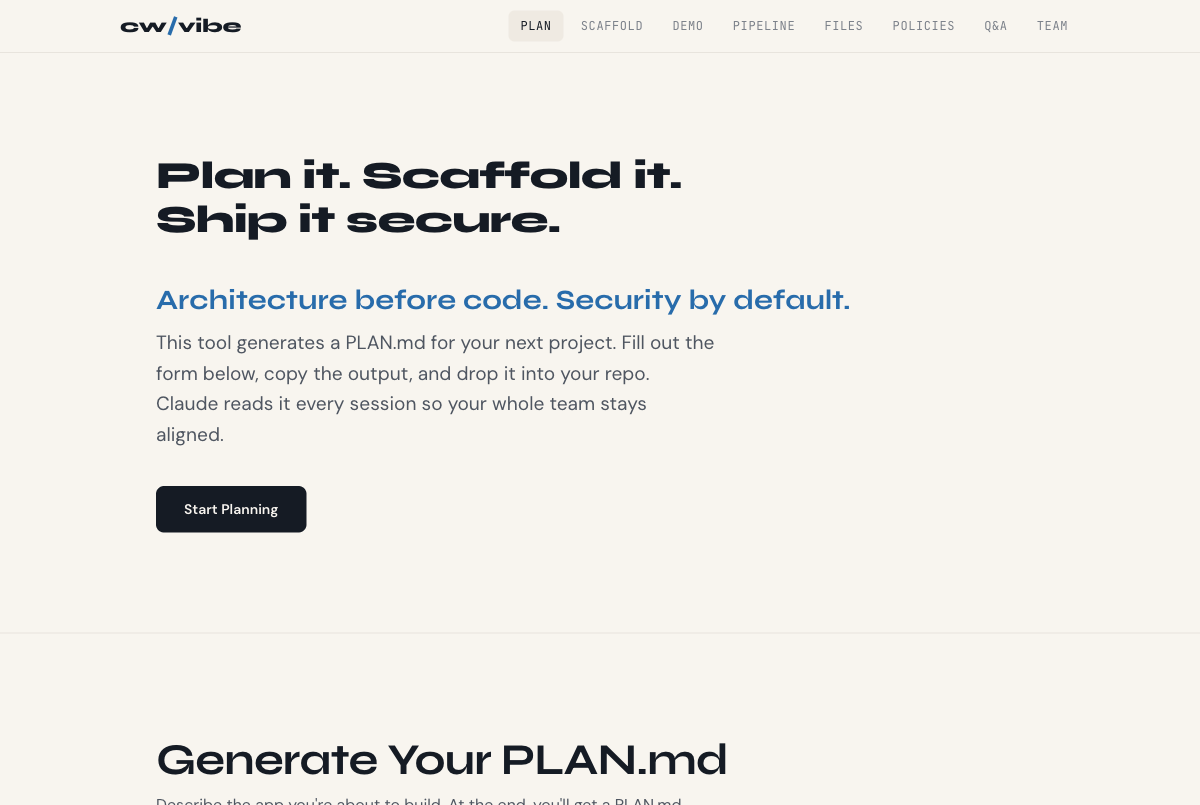
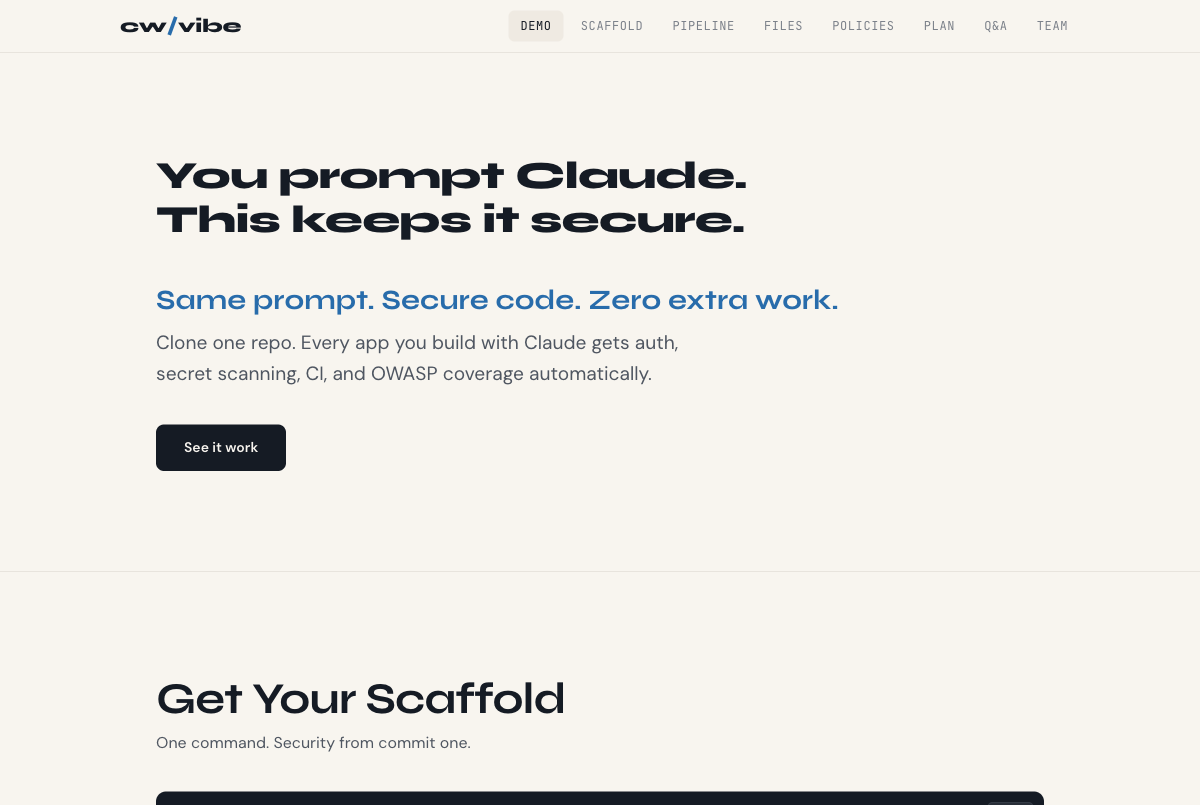
Remove form from landing — demo first, plan form hidden until needed
Hero rewritten: "You prompt Claude. This keeps it secure." CTA goes
to demo, not form. Nav reordered: Demo > Scaffold > Pipeline > Files >
Policies > Plan. Plan form hidden by default, reveals on nav click.
Removed 60 lines of form bloat (duplicate role rows, flow builder).

Changed region(s): [[0.1233, 0.3416, 0.7092, 0.6832], [0.1233, 0.8385, 0.8942, 1.0], [0.1233, 0.1863, 0.6167, 0.3106]]

diff --git a/docs/index.html b/docs/index.html
@@ -267,12 +267,12 @@ textarea { resize: vertical; min-height: 80px; line-height: 1.6; }
 <div class="container nav-inner">
   <div class="nav-logo">cw<span>/</span>vibe</div>
   <div class="nav-links">
-    <a href="#plan" class="nav-link active" data-section="plan">Plan</a>
+    <a href="#demo" class="nav-link active" data-section="demo">Demo</a>
     <a href="#scaffold" class="nav-link" data-section="scaffold">Scaffold</a>
-    <a href="#demo" class="nav-link" data-section="demo">Demo</a>
     <a href="#pipeline" class="nav-link" data-section="pipeline">Pipeline</a>
     <a href="#files" class="nav-link" data-section="files">Files</a>
     <a href="#policies" class="nav-link" data-section="policies">Policies</a>
+    <a href="#plan" class="nav-link" data-section="plan">Plan</a>
     <a href="#qa" class="nav-link" data-section="qa">Q&amp;A</a>
     <a href="#team" class="nav-link" data-section="team">Team</a>
   </div>
@@ -282,182 +282,10 @@ textarea { resize: vertical; min-height: 80px; line-height: 1.6; }
 <!-- HERO -->
 <section class="hero">
 <div class="container">
-  <h1>Plan it. Scaffold it.<br>Ship it secure.</h1>
-  <p class="hero-stat">Architecture before code. Security by default.</p>
-  <p class="hero-sub">This tool generates a PLAN.md for your next project. Fill out the form below, copy the output, and drop it into your repo. Claude reads it every session so your whole team stays aligned.</p>
-  <a href="#plan" class="hero-cta" onclick="document.getElementById('plan').scrollIntoView({behavior:'smooth'});return false;">Start Planning</a>
-</div>
-</section>
-
-<!-- ===== SECTION 1: PLAN ===== -->
-<section id="plan">
-<div class="container">
-  <h2>Generate Your PLAN.md</h2>
-  <p class="subtitle">Describe the app you're about to build. At the end, you'll get a PLAN.md to copy into your project. This doesn't build anything — it creates the blueprint Claude follows.</p>
-  <div class="step-progress" id="stepProgress">Step <strong>1</strong> of 8</div>
-  <div class="step-track" id="stepTrack"></div>
-
-  <!-- Step 1: Identity -->
-  <div class="step-card active" data-step="1">
-    <h3>1. Project Identity</h3>
-    <p>What app are you planning? This goes into the generated PLAN.md header.</p>
-    <div class="field-group"><label class="field-label" for="appName">App Name</label><input type="text" id="appName" placeholder="e.g. inventory-tracker" autocomplete="off"></div>
-    <div class="field-group"><label class="field-label" for="appDesc">One-Sentence Description</label><input type="text" id="appDesc" placeholder="e.g. Tracks rack inventory for DCT ops"></div>
-    <div class="field-group"><label class="field-label" for="teamName">Team / Slack Channel</label><input type="text" id="teamName" placeholder="e.g. dct-ops (#dct-eng)"></div>
-    <div class="btn-row"><button class="btn btn-primary" onclick="nextStep(1)">Next</button></div>
-  </div>
-
-  <!-- Step 2: Roles -->
-  <div class="step-card" data-step="2">
-    <h3>2. Users &amp; Roles</h3>
-    <p>Who uses this app and what can they do?</p>
-    <div class="dynamic-rows" id="rolesRows">
-      <div class="dynamic-row roles-row"><input type="text" placeholder="Role (e.g. Admin)" class="role-name"><input type="text" placeholder="Who (e.g. DCT leads)" class="role-who"><input type="text" placeholder="Permissions (e.g. Full CRUD)" class="role-perms"><button class="remove-row" onclick="removeRow(this)">&times;</button></div>
-      <div class="dynamic-row roles-row"><input type="text" placeholder="Role" class="role-name"><input type="text" placeholder="Who" class="role-who"><input type="text" placeholder="Permissions" class="role-perms"><button class="remove-row" onclick="removeRow(this)">&times;</button></div>
-    </div>
-    <button class="add-row-btn" onclick="addRoleRow()">+ Add Role</button>
-    <div class="btn-row"><button class="btn btn-secondary" onclick="prevStep(2)">Back</button><button class="btn btn-primary" onclick="nextStep(2)">Next</button></div>
-  </div>
-
-  <!-- Step 3: Data -->
-  <div class="step-card" data-step="3">
-    <h3>3. Data Schema</h3>
-    <p>What data does this app store? Define your tables.</p>
-    <div class="dynamic-rows" id="tableRows">
-      <div class="dynamic-row table-row"><input type="text" placeholder="Table name" class="tbl-name"><input type="text" placeholder="Fields (comma-separated)" class="tbl-fields"><input type="text" placeholder="Notes" class="tbl-notes"><button class="remove-row" onclick="removeRow(this)">&times;</button></div>
-    </div>
-    <button class="add-row-btn" onclick="addTableRow()">+ Add Table</button>
-    <div class="btn-row"><button class="btn btn-secondary" onclick="prevStep(3)">Back</button><button class="btn btn-primary" onclick="nextStep(3)">Next</button></div>
-  </div>
-
-  <!-- Step 4: Endpoints -->
-  <div class="step-card" data-step="4">
-    <h3>4. API Endpoints</h3>
-    <p>What endpoints does the app expose?</p>
-    <div class="dynamic-rows" id="endpointRows">
-      <div class="dynamic-row endpoint-row"><select class="ep-method"><option>GET</option><option>POST</option><option>PUT</option><option>PATCH</option><option>DELETE</option></select><input type="text" placeholder="/api/resource" class="ep-path"><input type="text" placeholder="Auth role" class="ep-auth"><input type="text" placeholder="Description" class="ep-desc"><button class="remove-row" onclick="removeRow(this)">&times;</button></div>
-    </div>
-    <button class="add-row-btn" onclick="addEndpointRow()">+ Add Endpoint</button>
-    <div class="btn-row"><button class="btn btn-secondary" onclick="prevStep(4)">Back</button><button class="btn btn-primary" onclick="nextStep(4)">Next</button></div>
-  </div>
-
-  <!-- Step 5: Flow -->
-  <div class="step-card" data-step="5">
-    <h3>5. User Flow</h3>
-    <p>Describe the main user journey. We'll generate a Mermaid diagram.</p>
-    <div class="field-group"><label class="field-label" for="flowDesc">Flow Description</label><textarea id="flowDesc" placeholder="e.g. User logs in via Okta -> sees dashboard -> selects a rack -> views/edits inventory -> changes auto-save -> admin can export CSV"></textarea></div>
-    <div class="field-group">
-      <label class="field-label">Or define nodes manually</label>
-      <div class="dynamic-rows" id="flowRows">
-        <div class="dynamic-row" style="grid-template-columns:1fr 40px 1fr 32px"><input type="text" placeholder="From (e.g. User)" class="flow-from"><span style="text-align:center;color:var(--text-tertiary);font-size:var(--text-lg)">&rarr;</span><input type="text" placeholder="To (e.g. Okta)" class="flow-to"><button class="remove-row" onclick="removeRow(this)">&times;</button></div>
-      </div>
-      <button class="add-row-btn" onclick="addFlowRow()">+ Add Step</button>
-    </div>
-    <div class="btn-row"><button class="btn btn-secondary" onclick="prevStep(5)">Back</button><button class="btn btn-primary" onclick="nextStep(5)">Next</button></div>
-  </div>
-
-  <!-- Step 6: Stack -->
-  <div class="step-card" data-step="6">
-    <h3>6. Tech Stack</h3>
-    <p>Pick your stack. CW-approved options highlighted.</p>
-    <label class="field-label">Language / Framework</label>
-    <div class="stack-options" id="langOptions">
-      <div class="stack-chip selected" data-val="Python (FastAPI)" onclick="selectChip(this)">Python (FastAPI)</div>
-      <div class="stack-chip" data-val="Python (Flask)" onclick="selectChip(this)">Python (Flask)</div>
-      <div class="stack-chip" data-val="Go" onclick="selectChip(this)">Go</div>
-      <div class="stack-chip" data-val="Node.js (Express)" onclick="selectChip(this)">Node.js (Express)</div>
-      <div class="stack-chip" data-val="Rust" onclick="selectChip(this)">Rust</div>
-    </div>
-    <label class="field-label">Database</label>
-    <div class="stack-options" id="dbOptions">
-      <div class="stack-chip selected" data-val="PostgreSQL" onclick="selectChip(this)">PostgreSQL</div>
-      <div class="stack-chip" data-val="MySQL" onclick="selectChip(this)">MySQL</div>
-      <div class="stack-chip" data-val="Redis" onclick="selectChip(this)">Redis</div>
-      <div class="stack-chip" data-val="SQLite" onclick="selectChip(this)">SQLite</div>
-      <div class="stack-chip" data-val="None" onclick="selectChip(this)">None</div>
-    </div>
-    <label class="field-label">Deployment</label>
-    <div class="stack-options" id="deployOptions">
-      <div class="stack-chip selected" data-val="Helm + Argo" onclick="selectChip(this)">Helm + Argo</div>
-      <div class="stack-chip" data-val="Docker Compose" onclick="selectChip(this)">Docker Compose</div>
-      <div class="stack-chip" data-val="Kubernetes (raw)" onclick="selectChip(this)">Kubernetes (raw)</div>
-      <div class="stack-chip" data-val="GitHub Pages" onclick="selectChip(this)">GitHub Pages</div>
-    </div>
-    <div class="field-group" style="margin-top:var(--space-md)"><label class="field-label" for="secAuth">Auth Provider</label><input type="text" id="secAuth" placeholder="e.g. Okta OIDC" value="Okta OIDC"></div>
-    <div class="field-group"><label class="field-label" for="secSecrets">Secrets Manager</label><input type="text" id="secSecrets" placeholder="e.g. Doppler" value="Doppler"></div>
-    <div class="field-group"><label class="field-label" for="secClass">Data Classification</label><select id="secClass"><option>Public</option><option selected>Internal</option><option>Confidential</option><option>Restricted</option></select></div>
-    <div class="btn-row"><button class="btn btn-secondary" onclick="prevStep(6)">Back</button><button class="btn btn-primary" onclick="nextStep(6)">Next</button></div>
-  </div>
-
-  <!-- Step 7: Infrastructure -->
-  <div class="step-card" data-step="7">
-    <h3>7. Infrastructure &amp; Scaling</h3>
-    <p>Plan for production from the start. How does this app run at scale?</p>
-    <label class="field-label">Environments</label>
-    <div class="stack-options" id="envOptions">
-      <div class="stack-chip selected" data-val="dev" onclick="toggleChip(this)">Dev</div>
-      <div class="stack-chip selected" data-val="staging" onclick="toggleChip(this)">Staging</div>
-      <div class="stack-chip selected" data-val="prod" onclick="toggleChip(this)">Prod</div>
-    </div>
-    <div class="field-row">
-      <div class="field-group"><label class="field-label" for="replicasDev">Dev Replicas</label><input type="text" id="replicasDev" value="1" placeholder="1"></div>
-      <div class="field-group"><label class="field-label" for="replicasProd">Prod Replicas</label><input type="text" id="replicasProd" value="3" placeholder="3"></div>
-    </div>
-    <div class="field-row">
-      <div class="field-group"><label class="field-label" for="cpuLimit">CPU Limit</label><input type="text" id="cpuLimit" value="500m" placeholder="e.g. 500m, 1"></div>
-      <div class="field-group"><label class="field-label" for="memLimit">Memory Limit</label><input type="text" id="memLimit" value="512Mi" placeholder="e.g. 256Mi, 1Gi"></div>
-    </div>
-    <div class="field-group"><label class="field-label" for="scalingStrategy">Scaling Strategy</label><select id="scalingStrategy"><option>Fixed replicas</option><option selected>HPA (CPU-based)</option><option>HPA (custom metrics)</option><option>KEDA (event-driven)</option></select></div>
-    <div class="field-group"><label class="field-label" for="infraNotes">Infrastructure Notes</label><textarea id="infraNotes" placeholder="e.g. Needs GPU nodes, requires persistent volume, external load balancer needed..." style="min-height:60px"></textarea></div>
-    <div class="btn-row"><button class="btn btn-secondary" onclick="prevStep(7)">Back</button><button class="btn btn-primary" onclick="nextStep(7)">Next</button></div>
-  </div>
-
-  <!-- Step 8: Scope Lock & GitHub -->
-  <div class="step-card" data-step="8">
-    <h3>8. Scope Lock &amp; GitHub</h3>
-    <p>Define what's in v1, what's deferred, and how the team ships code.</p>
-    <div class="field-group">
-      <label class="field-label">MVP Features (what ships in v1)</label>
-      <div class="dynamic-rows" id="mvpRows">
-        <div class="dynamic-row" style="grid-template-columns:1fr 32px"><input type="text" placeholder="e.g. CRUD for racks with auth" class="mvp-item"><button class="remove-row" onclick="removeRow(this)">&times;</button></div>
-      </div>
-      <button class="add-row-btn" onclick="addMvpRow()">+ Add Feature</button>
-    </div>
-    <div class="field-group">
-      <label class="field-label">Deferred (explicitly NOT in v1)</label>
-      <div class="dynamic-rows" id="deferredRows">
-        <div class="dynamic-row" style="grid-template-columns:1fr 32px"><input type="text" placeholder="e.g. CSV export, email notifications" class="deferred-item"><button class="remove-row" onclick="removeRow(this)">&times;</button></div>
-      </div>
-      <button class="add-row-btn" onclick="addDeferredRow()">+ Add Deferred Item</button>
-    </div>
-    <div style="margin-top:var(--space-md);padding:var(--space-md);background:var(--warn-bg);border:1px solid oklch(80% 0.08 75);border-radius:10px;margin-bottom:var(--space-md)">
-      <p style="font-size:var(--text-sm);color:var(--warn);font-weight:500">Scope Lock: Features listed above are frozen for v1. Claude will reference this list and resist scope creep. If it's not in MVP, it waits.</p>
-    </div>
-    <label class="field-label">GitHub Practices</label>
-    <div style="display:flex;flex-direction:column;gap:var(--space-sm);margin-bottom:var(--space-md)">
-      <label style="display:flex;align-items:center;gap:var(--space-sm);font-size:var(--text-sm);cursor:pointer"><input type="checkbox" id="ghBranchProtect" checked> Branch protection on main</label>
-      <label style="display:flex;align-items:center;gap:var(--space-sm);font-size:var(--text-sm);cursor:pointer"><input type="checkbox" id="ghRequirePR" checked> Require PR reviews before merge</label>
-      <label style="display:flex;align-items:center;gap:var(--space-sm);font-size:var(--text-sm);cursor:pointer"><input type="checkbox" id="ghRequireCI" checked> Require CI to pass before merge</label>
-      <label style="display:flex;align-items:center;gap:var(--space-sm);font-size:var(--text-sm);cursor:pointer"><input type="checkbox" id="ghCodeowners" checked> CODEOWNERS file</label>
-      <label style="display:flex;align-items:center;gap:var(--space-sm);font-size:var(--text-sm);cursor:pointer"><input type="checkbox" id="ghSignedCommits"> Require signed commits</label>
-      <label style="display:flex;align-items:center;gap:var(--space-sm);font-size:var(--text-sm);cursor:pointer"><input type="checkbox" id="ghConventional"> Conventional commit messages</label>
-    </div>
-    <div class="field-group"><label class="field-label" for="branchStrategy">Branching Strategy</label><select id="branchStrategy"><option selected>feature/* branches + PR to main</option><option>GitFlow (develop + release branches)</option><option>Trunk-based (short-lived branches)</option></select></div>
-    <div class="btn-row"><button class="btn btn-secondary" onclick="prevStep(8)">Back</button><button class="btn btn-primary" onclick="generatePlan()">Generate PLAN.md</button></div>
-  </div>
-
-  <!-- Output -->
-  <div id="planOutput" style="display:none">
-    <div class="plan-output">
-      <div class="plan-chrome"><span class="dot r"></span><span class="dot y"></span><span class="dot g"></span><span class="plan-title">PLAN.md</span></div>
-      <div class="plan-body" id="planBody"></div>
-      <div class="plan-actions">
-        <button class="plan-copy-btn" onclick="copyPlan()">Copy to Clipboard</button>
-        <button class="plan-copy-btn" onclick="downloadPlan()">Download PLAN.md</button>
-        <button class="plan-copy-btn" onclick="resetForm()">Start Over</button>
-      </div>
-    </div>
-  </div>
+  <h1>You prompt Claude.<br>This keeps it secure.</h1>
+  <p class="hero-stat">Same prompt. Secure code. Zero extra work.</p>
+  <p class="hero-sub">Clone one repo. Every app you build with Claude gets auth, secret scanning, CI, and OWASP coverage automatically.</p>
+  <a href="#demo" class="hero-cta" onclick="document.getElementById('demo').scrollIntoView({behavior:'smooth'});return false;">See it work</a>
 </div>
 </section>
 
@@ -598,6 +426,113 @@ textarea { resize: vertical; min-height: 80px; line-height: 1.6; }
   </div>
   <div id="tree" style="font-family:'JetBrains Mono',monospace;font-size:var(--text-xs);line-height:2"></div>
   <div id="file-desc"></div>
+</div>
+</section>
+
+<!-- ===== PLAN FORM (hidden until user clicks Plan in nav) ===== -->
+<section id="plan" style="display:none">
+<div class="container">
+  <h2>Generate Your PLAN.md</h2>
+  <p class="subtitle">Ready to build? Describe your app and get a PLAN.md that Claude reads every session.</p>
+  <div class="step-progress" id="stepProgress">Step <strong>1</strong> of 8</div>
+  <div class="step-track" id="stepTrack"></div>
+  <div class="step-card active" data-step="1">
+    <h3>1. Project Identity</h3>
+    <p>What app are you planning?</p>
+    <div class="field-group"><label class="field-label" for="appName">App Name</label><input type="text" id="appName" placeholder="e.g. inventory-tracker" autocomplete="off"></div>
+    <div class="field-group"><label class="field-label" for="appDesc">One-Sentence Description</label><input type="text" id="appDesc" placeholder="e.g. Tracks rack inventory for DCT ops"></div>
+    <div class="field-group"><label class="field-label" for="teamName">Team / Slack Channel</label><input type="text" id="teamName" placeholder="e.g. dct-ops (#dct-eng)"></div>
+    <div class="btn-row"><button class="btn btn-primary" onclick="nextStep(1)">Next</button></div>
+  </div>
+  <div class="step-card" data-step="2">
+    <h3>2. Users &amp; Roles</h3>
+    <p>Who uses this app and what can they do?</p>
+    <div class="dynamic-rows" id="rolesRows">
+      <div class="dynamic-row roles-row"><input type="text" placeholder="Role (e.g. Admin)" class="role-name"><input type="text" placeholder="Who (e.g. DCT leads)" class="role-who"><input type="text" placeholder="Permissions (e.g. Full CRUD)" class="role-perms"><button class="remove-row" onclick="removeRow(this)">&times;</button></div>
+    </div>
+    <button class="add-row-btn" onclick="addRoleRow()">+ Add Role</button>
+    <div class="btn-row"><button class="btn btn-secondary" onclick="prevStep(2)">Back</button><button class="btn btn-primary" onclick="nextStep(2)">Next</button></div>
+  </div>
+  <div class="step-card" data-step="3">
+    <h3>3. Data Schema</h3>
+    <p>What data does this app store?</p>
+    <div class="dynamic-rows" id="tableRows">
+      <div class="dynamic-row table-row"><input type="text" placeholder="Table name" class="tbl-name"><input type="text" placeholder="Fields (comma-separated)" class="tbl-fields"><input type="text" placeholder="Notes" class="tbl-notes"><button class="remove-row" onclick="removeRow(this)">&times;</button></div>
+    </div>
+    <button class="add-row-btn" onclick="addTableRow()">+ Add Table</button>
+    <div class="btn-row"><button class="btn btn-secondary" onclick="prevStep(3)">Back</button><button class="btn btn-primary" onclick="nextStep(3)">Next</button></div>
+  </div>
+  <div class="step-card" data-step="4">
+    <h3>4. API Endpoints</h3>
+    <p>What endpoints does the app expose?</p>
+    <div class="dynamic-rows" id="endpointRows">
+      <div class="dynamic-row endpoint-row"><select class="ep-method"><option>GET</option><option>POST</option><option>PUT</option><option>PATCH</option><option>DELETE</option></select><input type="text" placeholder="/api/resource" class="ep-path"><input type="text" placeholder="Auth role" class="ep-auth"><input type="text" placeholder="Description" class="ep-desc"><button class="remove-row" onclick="removeRow(this)">&times;</button></div>
+    </div>
+    <button class="add-row-btn" onclick="addEndpointRow()">+ Add Endpoint</button>
+    <div class="btn-row"><button class="btn btn-secondary" onclick="prevStep(4)">Back</button><button class="btn btn-primary" onclick="nextStep(4)">Next</button></div>
+  </div>
+  <div class="step-card" data-step="5">
+    <h3>5. User Flow</h3>
+    <p>Describe the main user journey.</p>
+    <div class="field-group"><label class="field-label" for="flowDesc">Flow Description</label><textarea id="flowDesc" placeholder="e.g. User logs in via Okta -> sees dashboard -> selects a rack -> views/edits inventory"></textarea></div>
+    <div class="btn-row"><button class="btn btn-secondary" onclick="prevStep(5)">Back</button><button class="btn btn-primary" onclick="nextStep(5)">Next</button></div>
+  </div>
+  <div class="step-card" data-step="6">
+    <h3>6. Tech Stack</h3>
+    <p>Pick your stack.</p>
+    <label class="field-label">Language / Framework</label>
+    <div class="stack-options" id="langOptions">
+      <div class="stack-chip selected" data-val="Python (FastAPI)" onclick="selectChip(this)">Python (FastAPI)</div>
+      <div class="stack-chip" data-val="Go" onclick="selectChip(this)">Go</div>
+      <div class="stack-chip" data-val="Node.js (Express)" onclick="selectChip(this)">Node.js</div>
+    </div>
+    <label class="field-label">Database</label>
+    <div class="stack-options" id="dbOptions">
+      <div class="stack-chip selected" data-val="PostgreSQL" onclick="selectChip(this)">PostgreSQL</div>
+      <div class="stack-chip" data-val="SQLite" onclick="selectChip(this)">SQLite</div>
+      <div class="stack-chip" data-val="None" onclick="selectChip(this)">None</div>
+    </div>
+    <div class="btn-row"><button class="btn btn-secondary" onclick="prevStep(6)">Back</button><button class="btn btn-primary" onclick="nextStep(6)">Next</button></div>
+  </div>
+  <div class="step-card" data-step="7">
+    <h3>7. Infrastructure</h3>
+    <p>How does this run at scale?</p>
+    <div class="field-row">
+      <div class="field-group"><label class="field-label" for="replicasProd">Prod Replicas</label><input type="text" id="replicasProd" value="3"></div>
+      <div class="field-group"><label class="field-label" for="cpuLimit">CPU Limit</label><input type="text" id="cpuLimit" value="500m"></div>
+    </div>
+    <div class="btn-row"><button class="btn btn-secondary" onclick="prevStep(7)">Back</button><button class="btn btn-primary" onclick="nextStep(7)">Next</button></div>
+  </div>
+  <div class="step-card" data-step="8">
+    <h3>8. Scope Lock</h3>
+    <p>What ships in v1? What waits?</p>
+    <div class="field-group">
+      <label class="field-label">MVP Features</label>
+      <div class="dynamic-rows" id="mvpRows">
+        <div class="dynamic-row" style="grid-template-columns:1fr 32px"><input type="text" placeholder="e.g. CRUD for racks with auth" class="mvp-item"><button class="remove-row" onclick="removeRow(this)">&times;</button></div>
+      </div>
+      <button class="add-row-btn" onclick="addMvpRow()">+ Add Feature</button>
+    </div>
+    <div class="field-group">
+      <label class="field-label">Deferred</label>
+      <div class="dynamic-rows" id="deferredRows">
+        <div class="dynamic-row" style="grid-template-columns:1fr 32px"><input type="text" placeholder="e.g. CSV export" class="deferred-item"><button class="remove-row" onclick="removeRow(this)">&times;</button></div>
+      </div>
+      <button class="add-row-btn" onclick="addDeferredRow()">+ Add Deferred</button>
+    </div>
+    <div class="btn-row"><button class="btn btn-secondary" onclick="prevStep(8)">Back</button><button class="btn btn-primary" onclick="generatePlan()">Generate PLAN.md</button></div>
+  </div>
+  <div id="planOutput" style="display:none">
+    <div class="plan-output">
+      <div class="plan-chrome"><span class="dot r"></span><span class="dot y"></span><span class="dot g"></span><span class="plan-title">PLAN.md</span></div>
+      <div class="plan-body" id="planBody"></div>
+      <div class="plan-actions">
+        <button class="plan-copy-btn" onclick="copyPlan()">Copy to Clipboard</button>
+        <button class="plan-copy-btn" onclick="downloadPlan()">Download PLAN.md</button>
+        <button class="plan-copy-btn" onclick="resetForm()">Start Over</button>
+      </div>
+    </div>
+  </div>
 </div>
 </section>
 
@@ -1247,14 +1182,18 @@ renderTree(FILETREE, document.getElementById('tree'));
 
 // Nav scroll tracking
 function updateNav() {
-  const sections = ['plan','scaffold','demo','pipeline','concepts','files','policies','qa','team'];
+  const sections = ['demo','scaffold','pipeline','concepts','files','plan','policies','qa','team'];
   let active = sections[0];
-  sections.forEach(id => { const el=document.getElementById(id); if(el&&el.getBoundingClientRect().top<=100)active=id; });
+  sections.forEach(id => { const el=document.getElementById(id); if(el&&el.offsetParent!==null&&el.getBoundingClientRect().top<=100)active=id; });
   document.querySelectorAll('.nav-link').forEach(link => link.classList.toggle('active', link.dataset.section === active));
 }
 window.addEventListener('scroll', updateNav, { passive: true });
 document.querySelectorAll('.nav-link').forEach(link => {
-  link.addEventListener('click', e => { e.preventDefault(); const t=document.getElementById(link.dataset.section); if(t)t.scrollIntoView({behavior:'smooth'}); });
+  link.addEventListener('click', e => {
+    e.preventDefault();
+    const t=document.getElementById(link.dataset.section);
+    if(t) { t.style.display=''; t.scrollIntoView({behavior:'smooth'}); }
+  });
 });
 </script>
 </body>
